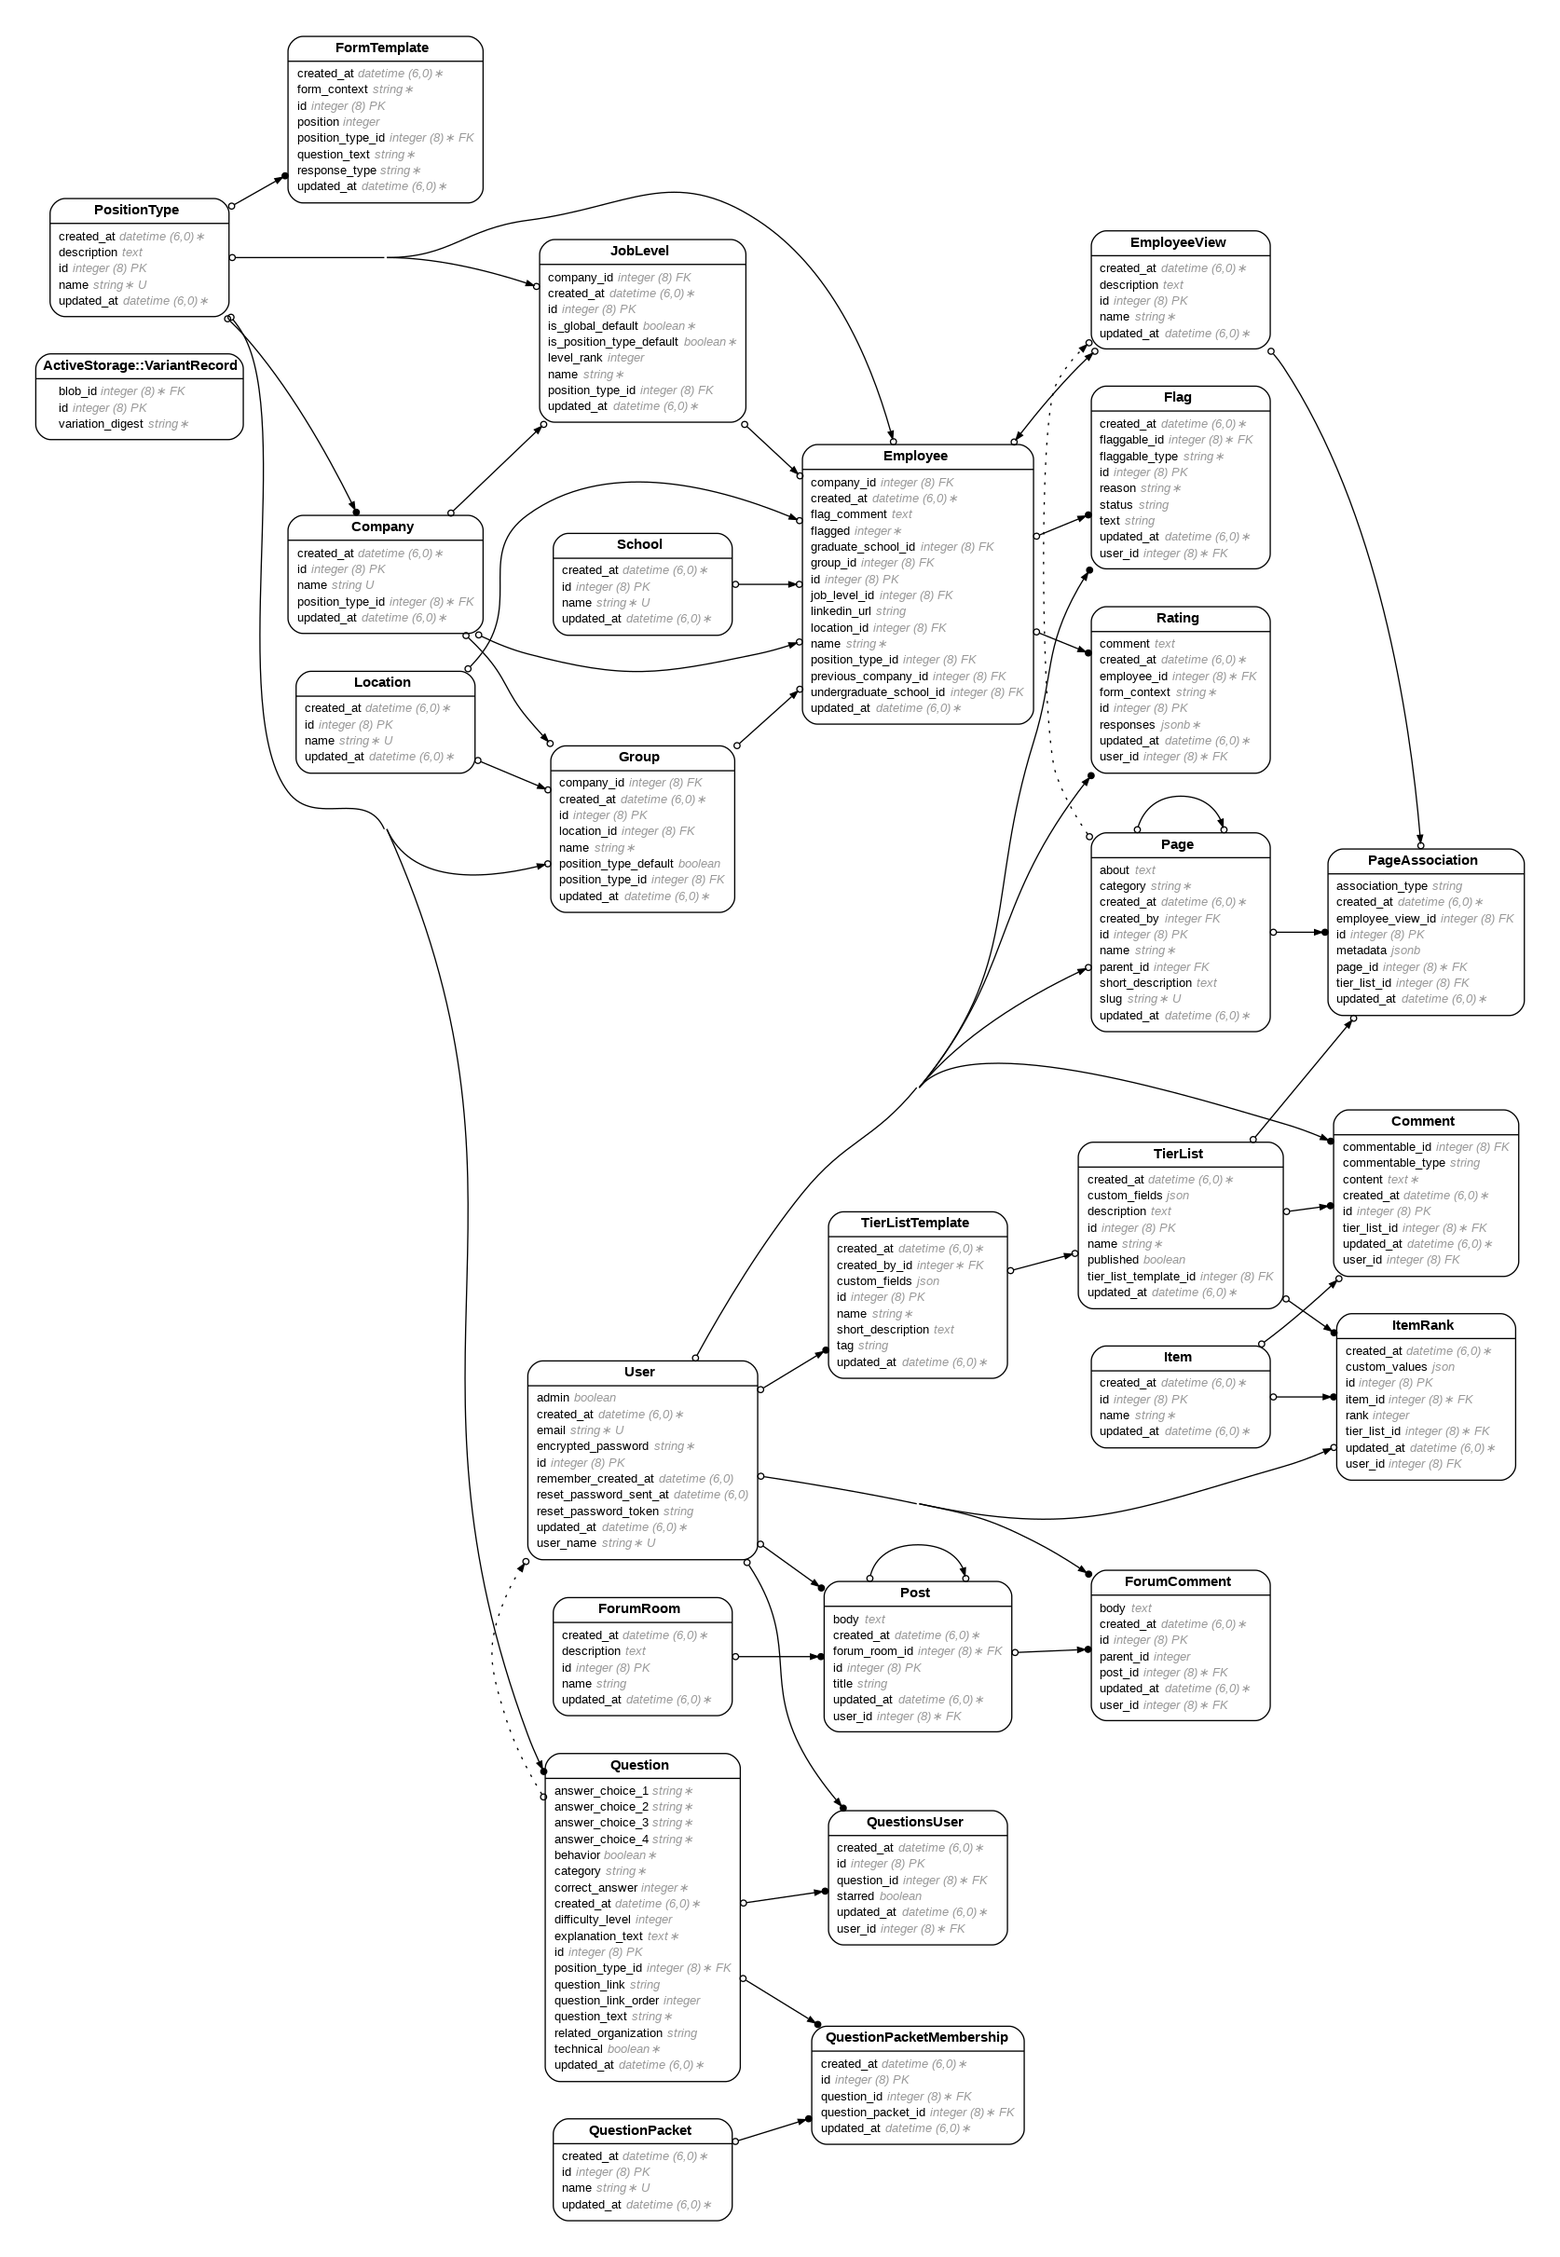
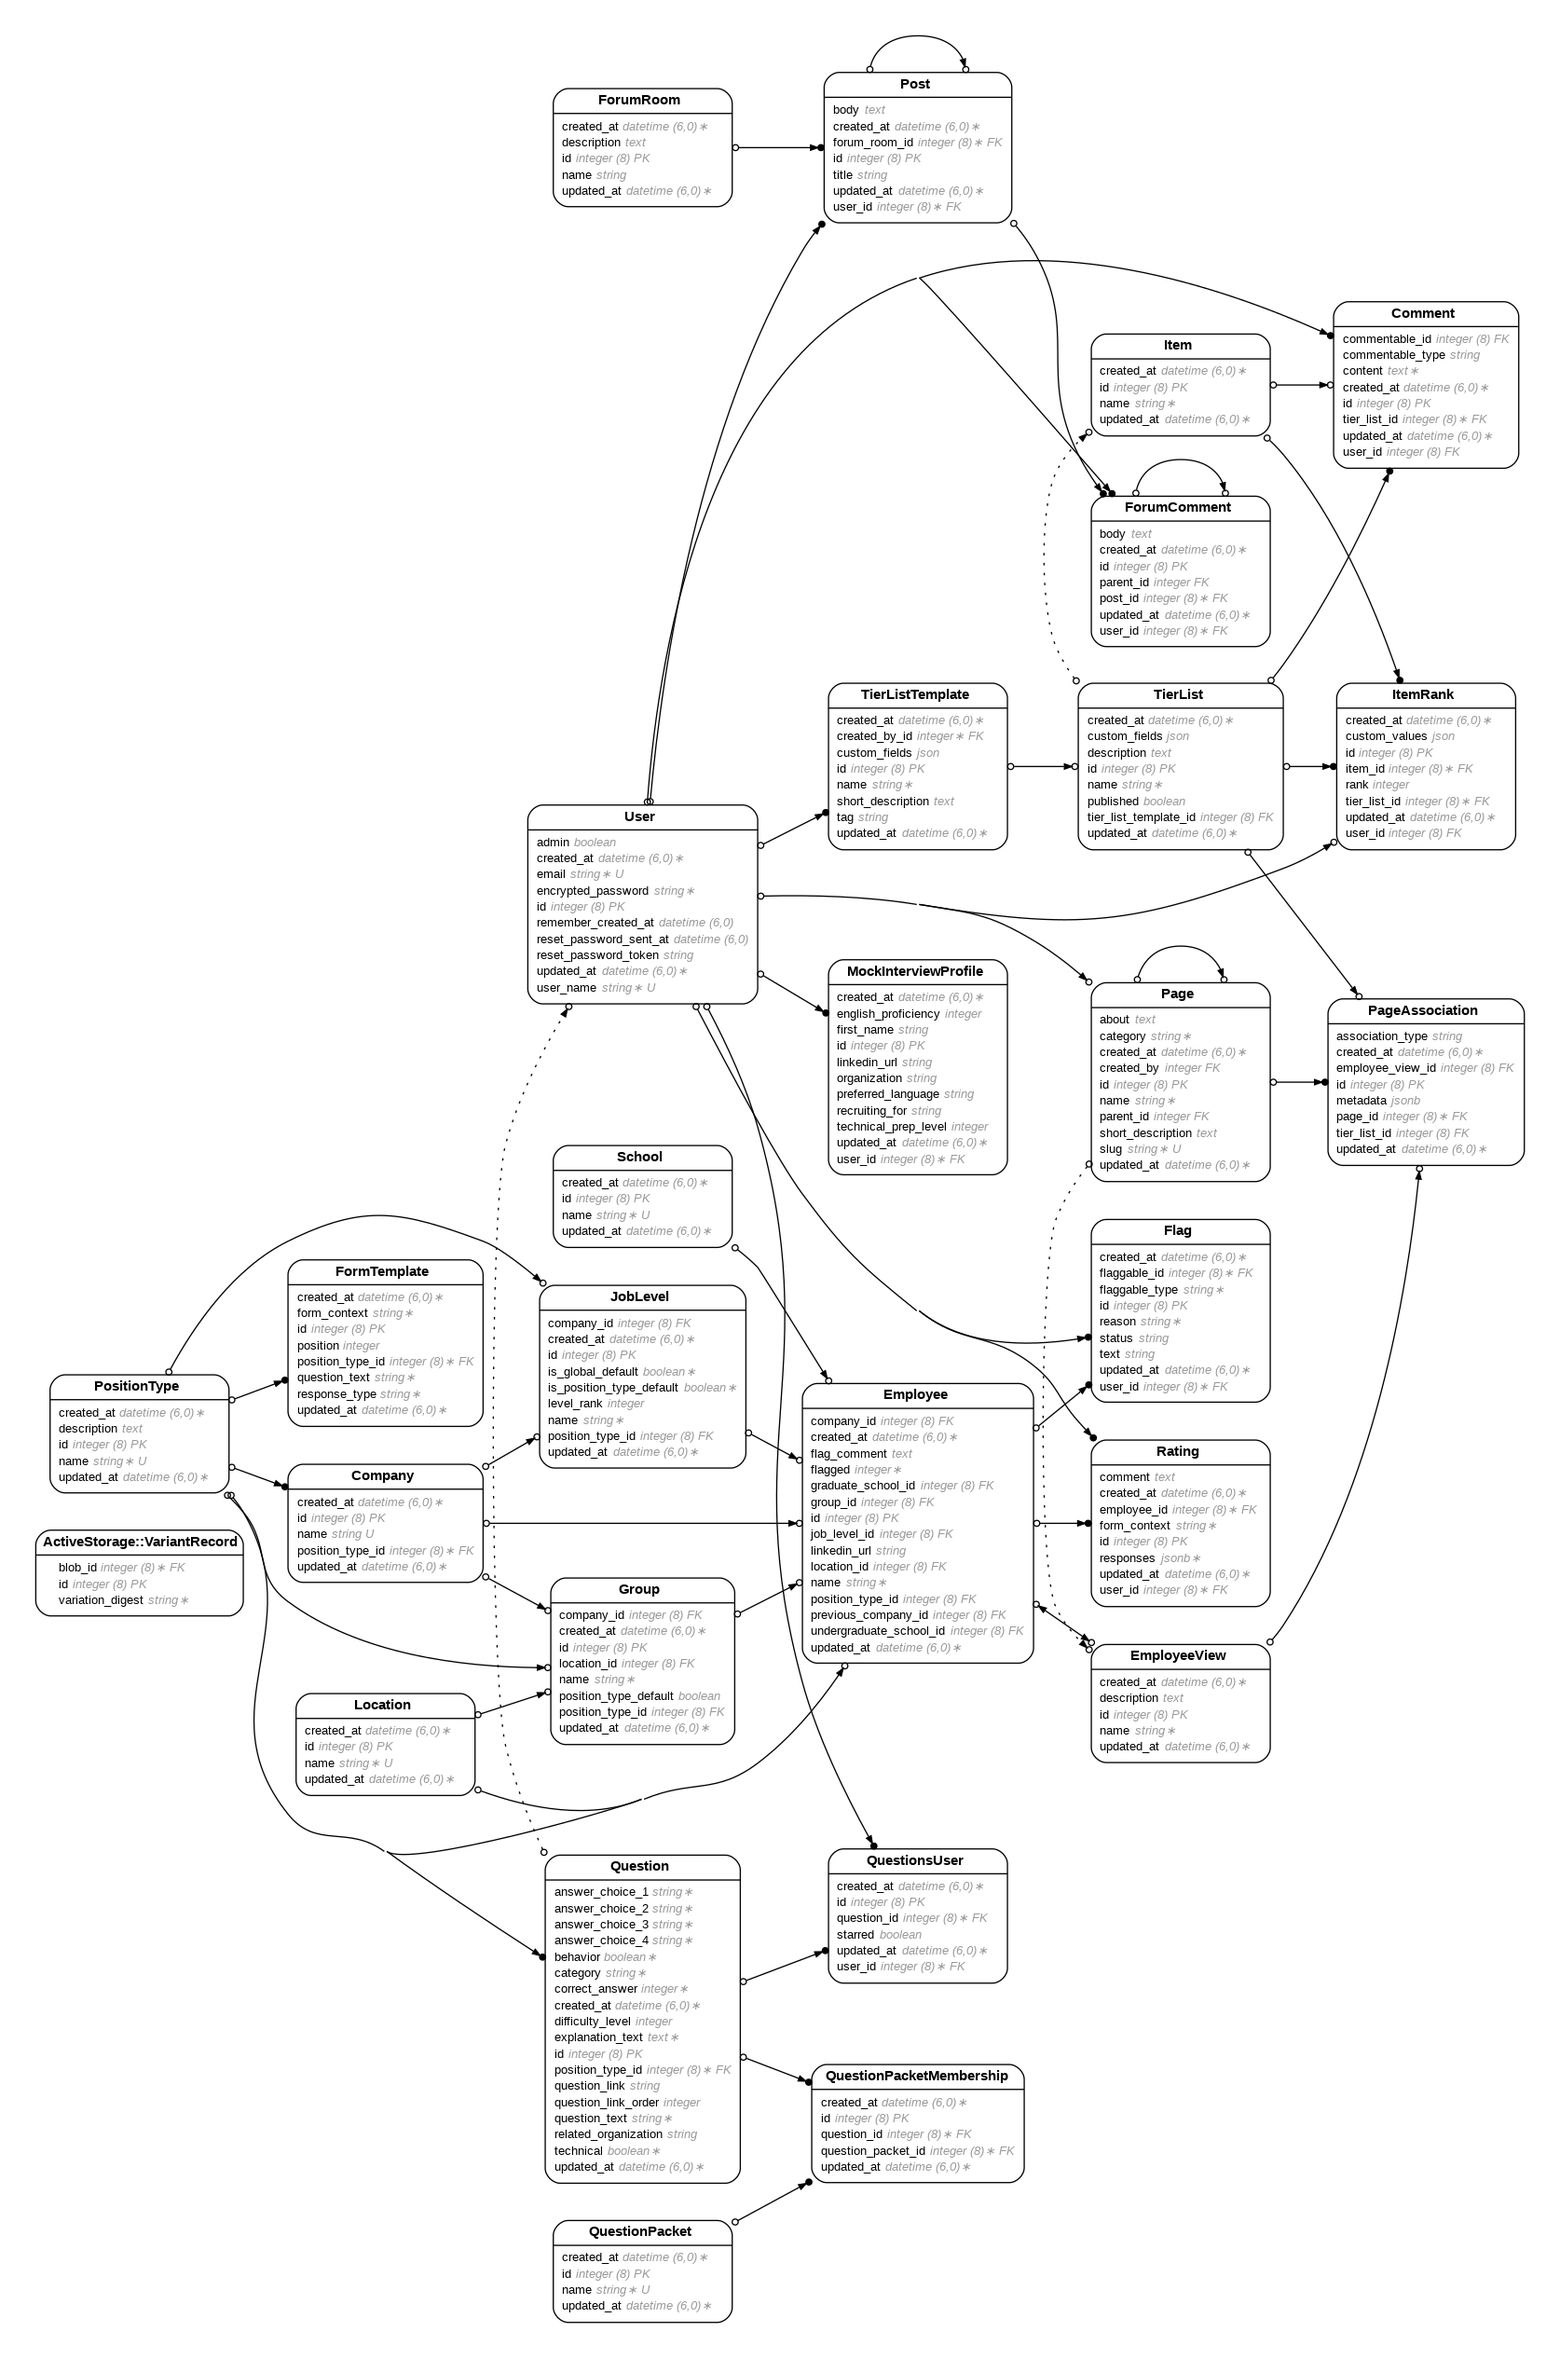
Updated info

diff --git a/db/schema.rb b/db/schema.rb
@@ -10,7 +10,7 @@
 #
 # It's strongly recommended that you check this file into your version control system.
 
-ActiveRecord::Schema[7.1].define(version: 2025_01_15_000041) do
+ActiveRecord::Schema[7.1].define(version: 2025_01_17_005209) do
   # These are extensions that must be enabled in order to support this database
   enable_extension "plpgsql"
 
@@ -201,6 +201,20 @@ ActiveRecord::Schema[7.1].define(version: 2025_01_15_000041) do
     t.datetime "updated_at", null: false
   end
 
+  create_table "mock_interview_profiles", force: :cascade do |t|
+    t.bigint "user_id", null: false
+    t.string "first_name"
+    t.string "recruiting_for"
+    t.integer "technical_prep_level"
+    t.string "organization"
+    t.string "linkedin_url"
+    t.string "preferred_language"
+    t.integer "english_proficiency"
+    t.datetime "created_at", null: false
+    t.datetime "updated_at", null: false
+    t.index ["user_id"], name: "index_mock_interview_profiles_on_user_id"
+  end
+
   create_table "page_associations", force: :cascade do |t|
     t.bigint "page_id", null: false
     t.bigint "tier_list_id"
@@ -379,6 +393,7 @@ ActiveRecord::Schema[7.1].define(version: 2025_01_15_000041) do
   add_foreign_key "item_ranks", "users"
   add_foreign_key "job_levels", "companies"
   add_foreign_key "job_levels", "position_types"
+  add_foreign_key "mock_interview_profiles", "users"
   add_foreign_key "page_associations", "employee_views"
   add_foreign_key "page_associations", "pages"
   add_foreign_key "page_associations", "tier_lists"

diff --git a/app/models/mock_interview_profile.rb b/app/models/mock_interview_profile.rb
@@ -1,0 +1,33 @@
+# == Schema Information
+#
+# Table name: mock_interview_profiles
+#
+#  id                   :bigint           not null, primary key
+#  english_proficiency  :integer
+#  first_name           :string
+#  linkedin_url         :string
+#  organization         :string
+#  preferred_language   :string
+#  recruiting_for       :string
+#  technical_prep_level :integer
+#  created_at           :datetime         not null
+#  updated_at           :datetime         not null
+#  user_id              :bigint           not null
+#
+# Indexes
+#
+#  index_mock_interview_profiles_on_user_id  (user_id)
+#
+# Foreign Keys
+#
+#  fk_rails_...  (user_id => users.id)
+#
+class MockInterviewProfile < ApplicationRecord
+  belongs_to :user
+
+  validates :first_name, :recruiting_for, :technical_prep_level, presence: true
+  validates :linkedin_url, format: { with: URI::DEFAULT_PARSER.make_regexp(%w[http https]), message: "must be a valid URL" }, allow_blank: true
+
+  enum technical_prep_level: { high: 0, medium: 1, low: 2 }
+  enum english_proficiency: { conversational: 0, basic: 1, no_proficiency: 2 }
+end

diff --git a/db/migrate/20250117005209_create_mock_interview_profiles.rb b/db/migrate/20250117005209_create_mock_interview_profiles.rb
@@ -1,0 +1,16 @@
+class CreateMockInterviewProfiles < ActiveRecord::Migration[7.1]
+  def change
+    create_table :mock_interview_profiles do |t|
+      t.references :user, null: false, foreign_key: true
+      t.string :first_name
+      t.string :recruiting_for
+      t.integer :technical_prep_level
+      t.string :organization
+      t.string :linkedin_url
+      t.string :preferred_language
+      t.integer :english_proficiency
+
+      t.timestamps
+    end
+  end
+end

diff --git a/app/models/user.rb b/app/models/user.rb
@@ -28,6 +28,9 @@ class User < ApplicationRecord
   # Comments for tier lists
   has_many :comments, dependent: :destroy
 
+  # Mock interview profile
+  has_one :mock_interview_profile, dependent: :destroy
+
   # Posts for forums
   has_many :posts, dependent: :destroy
 

diff --git a/config/routes.rb b/config/routes.rb
@@ -178,6 +178,10 @@ Rails.application.routes.draw do
     end
   end
 
+  # Public Routes for Creating Mock Interview Profiles
+  resources :mock_interview_profiles, only: [:new, :create, :edit, :update]
+
+
 
 
 
